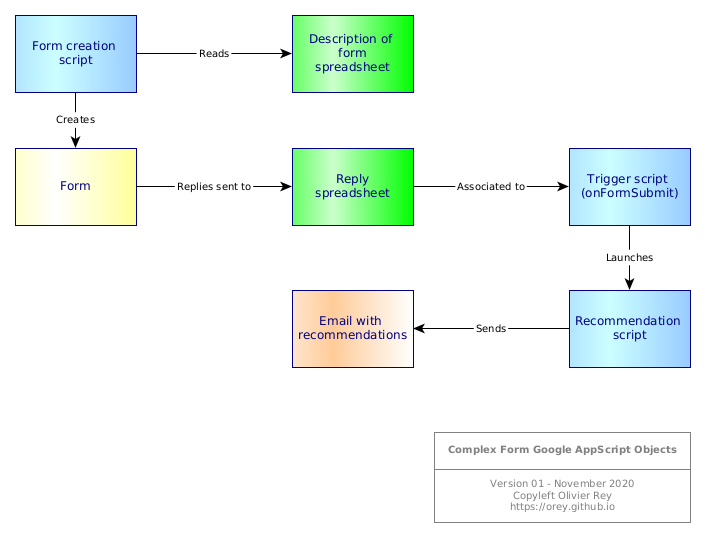
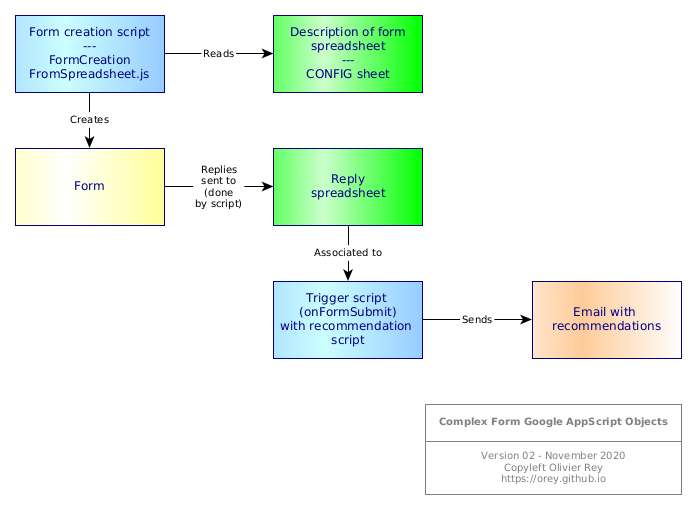
new stuff

diff --git a/FormCreationFromSpreadsheet.js b/FormCreationFromSpreadsheet.js
@@ -1,0 +1,164 @@
+/*==============================================================
+ * Script to create a form from a meta description stored in a
+ * Google spreadsheet.
+ * This code erases the form previously created.
+ * Author: O. Rey
+ * Version: 1.0
+ * Licence: GPL v3
+ * Date: November 11 2020
+ *==============================================================*/
+
+const SEPARATOR = '|';
+const CONFIG_SS_ID = "1SBGeXMO8SlLhgVWehkE9hMkpF-IaWh-EiuMMQuhZWw4";
+
+const FORM_ID = "1UcSsStTE5rR6Pn6koPcLpYLrOfW9ROQ74_UhU9fQ60A";
+const FORM_NAME = "Olivier's questionnaire";
+const FORM_VERSION = "1.0";
+const FORM_DESCRIPTION = "My test questionnaire";
+
+const OUTPUT_SS_ID = "1xPV4tP0pClY_h5LbnKaRuev2SBZpE_f3k9ufah5j6_I";
+const CONFIG_SHEET = "CONFIG";
+
+const MULTIPLE = 'CHECKBOX';
+const SINGLE = 'RADIOBUTTON';
+const SECTION = 'SECTION';
+const DATE = 'DATE';
+const GRID = 'GRID';
+const TRUE = 'TRUE';
+const FALSE = 'FALSE';
+
+
+/*
+ * Mapping Logger in 'console' class
+ */
+class console {
+    static log(str){
+        Logger.log(str);
+    }
+}
+
+/*
+ * Multiple choices
+ */
+function addMultipleChoices(f, title, choices, other=false){
+    f.addCheckboxItem()
+     .setTitle(title)
+     .setChoiceValues(choices)
+     .showOtherOption(other);
+}
+
+
+/*
+ * Single choice
+ */
+function addSingleChoice(f, title, choices, other=false){
+    f.addMultipleChoiceItem()
+     .setTitle(title)
+     .setChoiceValues(choices)
+        .showOtherOption(other);
+}
+
+
+/*
+ * Re-init form
+ */
+function reInitForm(f){
+    let items = f.getItems();
+    for (let i of items) {
+        f.deleteItem(i);
+        console.log('"' + i + '" item deleted');
+    }
+    
+}
+
+
+/*
+ * Tools
+ */
+function createList(str){
+    return str.split(SEPARATOR);
+}
+
+function opened(str){
+    return (str == TRUE) ? true : false;
+}
+
+
+
+/*
+ * This function creates a form based on the spreadsheet ID and the formname
+ * Warning: The ojects need to have permissions.
+ */
+function createFormFromSpreadsheet(new = false){
+    let ss = SpreadsheetApp.openById(CONFIG_SS_ID);
+    console.log("Name of the parameter spreadsheet: " + ss.getName());
+  
+    // Create a new form, then add a checkbox question, a multiple choice question,
+    // a page break, then a date question and a grid of questions.
+    let form;
+    if (new)
+        form = FormApp.create(FORM_NAME + " - Version " + FORM_VERSION);
+    else
+        form = FormApp.openById(FORM_ID);
+
+    // Remove everything in the form
+    reInitForm(form);
+
+    form.setDescription(FORM_DESCRIPTION)
+        .setCollectEmail(true);
+
+
+    let lastrow = ss.getSheetByName(CONFIG_SHEET).getLastRow();
+    console.log("Last row: " + lastrow);
+    let row, l;
+    for (let i=2; i <= lastrow; i++){
+        row = ss.getRange(CONFIG_SHEET + "!A" + i.toString() + ":E" +  i.toString());
+        l = row.getValues()[0];
+        console.log(l);
+
+        if (l[0] == MULTIPLE)
+            addMultipleChoices(form, l[1], createList(l[2]), opened(l[4]));
+        else if (l[0] == SINGLE)
+            addSingleChoice(form, l[1], createList(l[2]), opened(l[4]));
+        else if (l[0] == SECTION)
+            form.addPageBreakItem().setTitle(l[1]);
+        else if (l[0] == DATE)
+            form.addDateItem().setTitle(l[1]);
+        else if (l[0] == GRID)
+            form.addGridItem().setTitle(l[1]).setRows(createList(l[2])).setColumns(createList(l[3]));
+        else
+            console.log("Unrecognized command: "+ l[0]);
+    }
+    
+    /*
+    addMultipleChoices(form,
+                       'What condiments would you like on your hot dog?',
+                       ['Ketchup', 'Mustard','Relish']);
+
+    addSingleChoice(form,
+                    'Do you prefer cats or dogs?',
+                    ['Cats','Dogs', 'Snakes'],
+                    true);
+  
+    form.addPageBreakItem()
+        .setTitle('Getting to know you');
+    form.addDateItem()
+        .setTitle('When were you born?');
+    form.addGridItem()
+        .setTitle('Rate your interests')
+        .setRows(['Cars', 'Computers', 'Celebrities'])
+        .setColumns(['Boring', 'So-so', 'Interesting']);
+    */
+    
+    console.log('Published URL: ' + form.getPublishedUrl());
+    console.log('Editor URL: ' + form.getEditUrl());
+
+    // Update the form's response destination.
+    form.setDestination(FormApp.DestinationType.SPREADSHEET, OUTPUT_SS_ID);
+
+    
+    return true;
+}
+
+
+

diff --git a/README.md b/README.md
@@ -1,5 +1,15 @@
 # Complex Recommendation Google Form
 
+## Problem statement
+
+### Problem #1: Automate the creation of a Form from a Spreadsheet
+
+Google Forms are painful to do when the questionnaire is big. this project proposes a way to create a Google Form from a Google spreadsheet.
+
+### Problem #2: Treat automatically the responses with complex business rules at the end of the questionnaire
+
+A trigger is added when the response spreadsheet is filled. This trigger calculates the recommendation and sends an email to the one that filled the questionnaire.
+
 ## Overview
 
 The following schema explains the various Google Workspace objects that are required to create this complex form.
